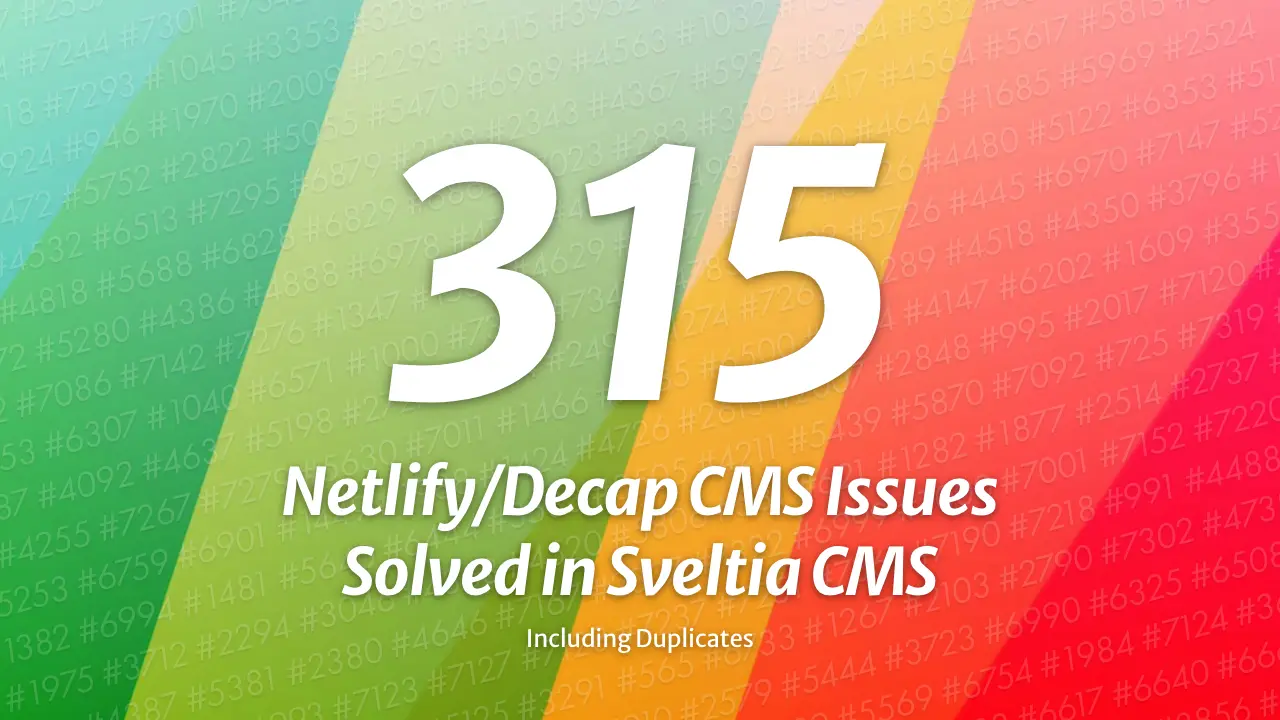
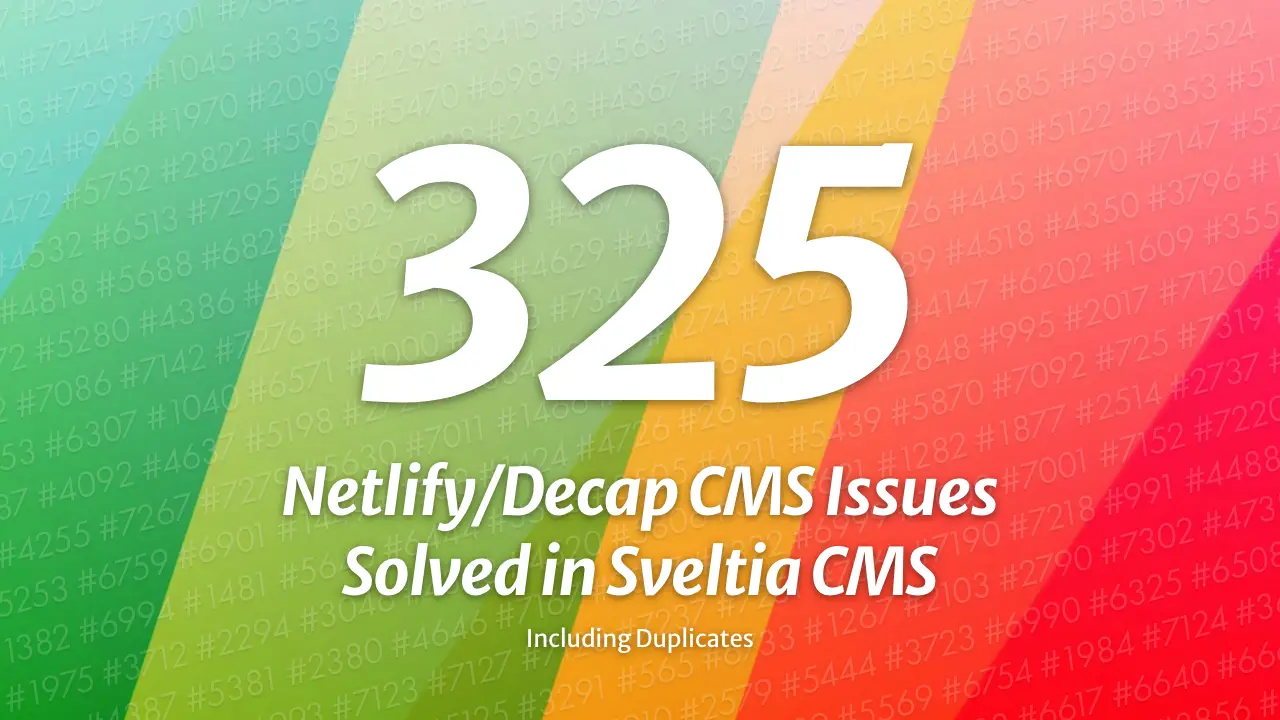
[skip ci] Update README.md

Changed region(s): [[0.2812, 0.1833, 0.7188, 0.5806], [0.6875, 0.1833, 0.7188, 0.275]]

diff --git a/README.md b/README.md
@@ -116,7 +116,7 @@ While we fix reported bugs as quickly as possible, usually within 24 hours, our 
 - Ensuring substantial [compatibility with Netlify/Decap CMS](#compatibility)
 - Providing partial [compatibility with Static CMS](#compatibility-with-static-cms)
 - Tackling as many [Netlify/Decap CMS issues](https://github.com/decaporg/decap-cms/issues) as possible
-  - So far, 165+ of them, or 315+ including duplicates, have been effectively solved in Sveltia CMS
+  - So far, 165+ of them, or 325+ including duplicates, have been effectively solved in Sveltia CMS
   - Target: 300 or all relevant, fixable and worthwhile issues in the future; 500 including duplicates
   - Note: Issues include feature requests, bug reports, [“closed as stale” issues](https://github.com/decaporg/decap-cms/issues?q=is%3Aissue+%22Closing+as+stale%22) and [discussions](https://github.com/decaporg/decap-cms/discussions)
   - Many of their [top-voted features](https://github.com/decaporg/decap-cms/issues?q=is%3Aissue+is%3Aopen+sort%3Areactions-%2B1-desc) are on our table or already implemented in Sveltia CMS
@@ -125,7 +125,7 @@ While we fix reported bugs as quickly as possible, usually within 24 hours, our 
 - Responding to requests from the maintainer’s clients
 - Making the code clean and maintainable
 
-![315 Netlify/Decap CMS Issues Solved in Sveltia CMS (Including Duplicates)](https://raw.githubusercontent.com/sveltia/sveltia-cms/main/docs/headline-1.webp?20250129)<br>
+![325 Netlify/Decap CMS Issues Solved in Sveltia CMS (Including Duplicates)](https://raw.githubusercontent.com/sveltia/sveltia-cms/main/docs/headline-1.webp?20250202)<br>
 
 ## Differentiators
 
@@ -196,7 +196,8 @@ We hope Netlify/Decap CMS users will be pleased and surprised by the hundreds of
 
 ### Better installation
 
-- Sveltia CMS won’t cause peer dependency conflicts due to legacy third-party React libraries.[^175] In fact, we build the app with [Svelte](https://svelte.dev/) and [our own UI library](https://github.com/sveltia/sveltia-ui) to reduce dependencies.
+- Sveltia CMS is built with [Svelte](https://svelte.dev/), and we only publish compiled vanilla JavaScript bundles, so there are no React compatibility issues that might prevent developers from upgrading your application.[^177] We haven’t actually integrated React for custom widgets and other features yet, but anyway, no dependencies are installed when you [install the app with npm](#installing-with-npm).
+- Sveltia CMS also won’t cause peer dependency conflicts due to legacy third-party React libraries.[^175] We build the app using Svelte and [our own UI library](https://github.com/sveltia/sveltia-ui) to reduce dependencies.
 - The [robots `meta` tag](https://developers.google.com/search/docs/crawling-indexing/robots-meta-tag) is automatically added to HTML to prevent the admin page from being indexed by search engines.[^174] Developers are still encouraged to manually add `<meta name="robots" content="noindex">` to `index.html`, as not all crawlers support dynamically added tags. However, our solution should at least work with Google in case you forget to do so.
 - Some servers and frameworks are known to remove the trailing slash from the CMS URL (`/admin`) depending on the configuration. In such cases, the config file is loaded from a root-relative URL (`/admin/config.yml`) instead of a regular relative URL (`./config.yml` = `/config.yml`) that results in a 404 Not Found error.[^107]
 - Supports a [JSON configuration file](#providing-a-json-configuration-file) that can be generated for bulk or complex collections.[^60]
@@ -1446,6 +1447,8 @@ This software is provided “as is” without any express or implied warranty. W
 
 [^174]: Netlify/Decap CMS [#6616](https://github.com/decaporg/decap-cms/issues/6616)
 
-[^175]: Netlify/Decap CMS [#7380](https://github.com/decaporg/decap-cms/issues/7380)
+[^175]: Netlify/Decap CMS [#5376](https://github.com/decaporg/decap-cms/issues/5376), [#7380](https://github.com/decaporg/decap-cms/issues/7380)
 
 [^176]: Netlify/Decap CMS [#6427](https://github.com/decaporg/decap-cms/issues/6427)
+
+[^177]: Netlify/Decap CMS [#2673](https://github.com/decaporg/decap-cms/issues/2673), [#5315](https://github.com/decaporg/decap-cms/issues/5315), [#6499](https://github.com/decaporg/decap-cms/issues/6499), [#6544](https://github.com/decaporg/decap-cms/issues/6544), [#6551](https://github.com/decaporg/decap-cms/issues/6551), [#6679](https://github.com/decaporg/decap-cms/issues/6679), [#6773](https://github.com/decaporg/decap-cms/issues/6773), [#6883](https://github.com/decaporg/decap-cms/issues/6883), [#7363](https://github.com/decaporg/decap-cms/discussions/7363), [#7365](https://github.com/decaporg/decap-cms/issues/7365),
